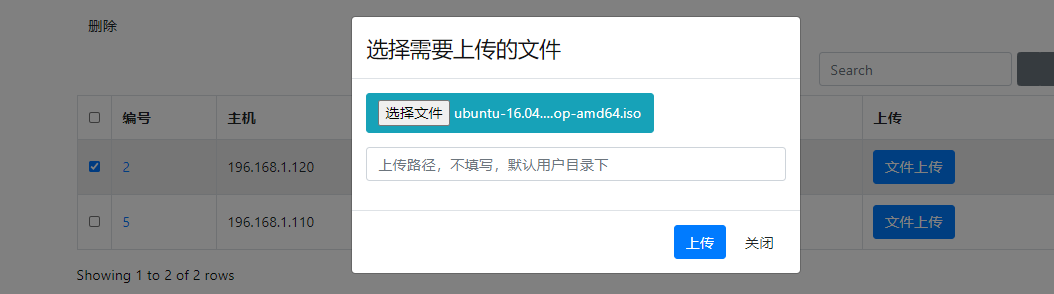
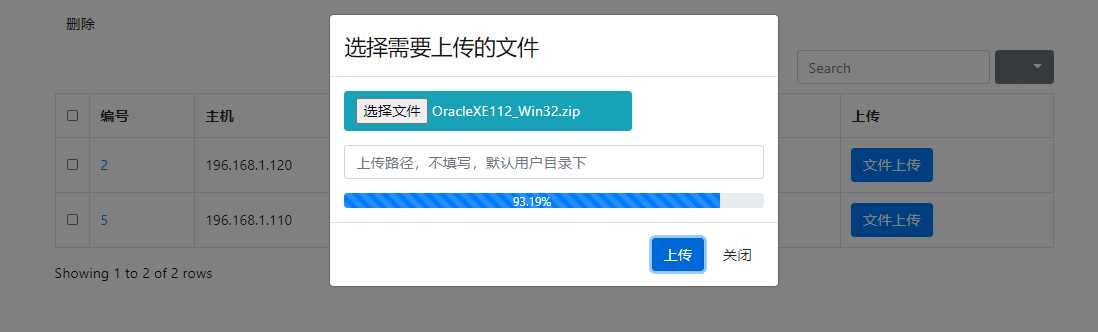
添加上传进度显示

diff --git a/webssh/static/js/main.js b/webssh/static/js/main.js
@@ -27,13 +27,44 @@ function success_execute(msg){
         }
 }
 
- $('#myModal').on('show.bs.modal',function(event) {
+var model = $('#myModal');
+
+//模态框打开时，触发将id放置在form中，连接id
+model.on('show.bs.modal',function(event) {
      var id = $(event.relatedTarget).attr('id');
      $(".hidden").attr({"id":id});
 
  });
 
-$('#upload').click(function() {
+//模态框关闭时，清除文件数据及进度
+model.on('hide.bs.modal',function(event) {
+    $("#upload-form")[0].reset();
+    $("#progress_rate").css("width", "0%");
+    $("#percent").text("0%");
+
+ });
+
+$('#upload').click(function(event) {
+    //阻止默认事件
+    event.preventDefault();
+    var pro = window.setInterval(function (){
+    $.ajax({
+        type: "POST",
+        url: "/upload/progress",
+        data: {"filename": $("#file").val().split("\\").pop() },
+        data_type: "json",
+        success: function(data) {
+            var rate = data.progress * 100;
+            rate = rate.toFixed(2);
+            $("#progress_rate").css("width", rate + "%");
+            $("#percent").text(rate + "%");
+            if (rate >= 100) {
+                window.clearInterval(pro);
+                $("#percent").text("文件上传成功！");
+            }
+        }
+    });
+    }, 1000);
     var formData = new FormData($('#upload-form')[0]);
     var id = $(".hidden").attr("id");
     formData.append("id", id);
@@ -46,9 +77,9 @@ $('#upload').click(function() {
         cache: false,
         contentType: false,
         success: function(data) {
-            $("#myModal").modal('hide');
             if(data.status == 200){
                console.log(data);
+               // $("#myModal").modal('hide');
             }else{
                 alert("上传失败！" + data.result);
             }

diff --git a/webssh/templates/connection_list.html b/webssh/templates/connection_list.html
@@ -39,6 +39,13 @@
                     <div class="form-group">
                         <input id='filepath'  name='filepath'  class="form-control  input-sm" placeholder="上传路径，不填写，默认用户目录下">
                     </div>
+                    <div id="progress" class="progress">
+                        <div id="progress_rate" aria-valuenow="0" aria-valuemin="0" aria-valuemax="100"
+                            class="progress-bar progress-bar-success progress-bar-striped active"
+                            role="progressbar" style="width: 0%">
+                                <span id="percent">0%</span>
+                        </div>
+                    </div>
                 </form>
             </div>
             <div class="modal-footer">

diff --git a/webssh/handlers.py b/webssh/handlers.py
@@ -16,7 +16,7 @@ from concurrent.futures import ThreadPoolExecutor
 import weakref
 from worker import Worker, recycle_worker, clients
 import struct
-
+import uuid
 try:
     from types import UnicodeType
 except ImportError:
@@ -25,11 +25,11 @@ try:
     from json.decoder import JSONDecodeError
 except ImportError:
     JSONDecodeError = ValueError
-
+from tornado.concurrent import run_on_executor
 from tornado_sqlalchemy import SQLAlchemy
 from tornado_sqlalchemy import SessionMixin
-from model import SSHConnection
-from tornadostreamform.multipart_streamer import MultiPartStreamer, TemporaryFileStreamedPart
+from model import SSHConnection, UploadProgress
+from tornadostreamform.multipart_streamer import MultiPartStreamer
 
 TMP_DIR = os.path.join(os.path.dirname(os.path.abspath(__file__)), "tmp_dir")
 
@@ -121,26 +121,53 @@ class ConnectionDataHandler(SessionMixin, BaseHandler):
         self.write(json.dumps(res))
 
 
-class UploadStreamer(MultiPartStreamer):
-    def create_part(self, headers):
-        return TemporaryFileStreamedPart(self, headers, tmp_dir=TMP_DIR)
-
-
 @stream_request_body
 class ConnectionUploadHandler(SessionMixin, BaseHandler):
+    executor = ThreadPoolExecutor(max_workers=cpu_count() * 5)
+
+    def update_upload_progress(self, filename, value, task_id, rel_filename=None, total=None, create=True):
+        up = UploadProgress(filename=filename, cur_value=value, total=total, rel_filename=rel_filename, task_id=task_id)
+        with self.make_session() as session:
+            if create:
+                session.add(up)
+            else:
+                data = {"cur_value": value, "task_id": task_id }
+                if total:
+                    data.update({"total": total})
+                if rel_filename:
+                    data.update({"rel_filename": rel_filename})
+                session.query(UploadProgress).update(data)
+            session.commit()
+
+    def initialize(self):
+        self.chunk_bytes = 0
+
     def prepare(self):
-        self.rm_file()
         if self.request.method.lower() == "post":
             self.request.connection.set_max_body_size(MAX_STREAM_SIZE)
         try:
             total = int(self.request.headers.get("Content-Length", "0"))
         except KeyError:
             total = 0
-        self.ps = UploadStreamer(total)
+        # 每次请求创建临时目录，上传完成后，清除目录
+        # 保证并行上传，或其他请求
+        uuid_str = str(uuid.uuid4())
+        tmp_dir = os.path.join(TMP_DIR, uuid_str)
+        if not os.path.exists(tmp_dir):
+            os.mkdir(tmp_dir)
+        self.ps = MultiPartStreamer(total, tmp_dir=tmp_dir)
+        self.update_upload_progress(filename=uuid_str, value=0, total=total, task_id=1)
 
+    @run_on_executor
     def data_received(self, chunk):
+        self.chunk_bytes += len(chunk)
         self.ps.data_received(chunk)
+        if self.ps.get_parts_by_name("upload_file"):
+            rel_filename = self.ps.get_parts_by_name("upload_file")[0].get_filename()
+        self.update_upload_progress(filename=os.path.basename(self.ps.tmp_dir),
+                                    value=self.chunk_bytes, task_id=1, rel_filename=rel_filename, create=False)
 
+    @tornado.gen.coroutine
     def post(self):
         try:
             self.ps.data_complete()
@@ -148,7 +175,8 @@ class ConnectionUploadHandler(SessionMixin, BaseHandler):
             # 三个part， 第一个文件，第二个filepath， 第三个id
             for part in self.ps.parts:
                 if part.get_filename():
-                    filepath = os.path.join(TMP_DIR, part.get_filename())
+                    filepath = os.path.join(os.path.dirname(part.f_out.name),
+                                            part.get_filename())
                     part.move(filepath)
                 if part.get_name() == "id":
                     id = int(part.get_payload())
@@ -159,8 +187,8 @@ class ConnectionUploadHandler(SessionMixin, BaseHandler):
                 if id:
                     with self.make_session() as session:
                         connection = session.query(SSHConnection).filter_by(id=id).first()
-                        self.ftp_upload(connection, filepath, filedir)
-                    self.rm_file()
+                        futrue = self.executor.submit(self.ftp_upload, connection, filepath, filedir)
+                        yield futrue
                 else:
                     self.write({"status": 500, "result": "id is None"})
             else:
@@ -171,21 +199,48 @@ class ConnectionUploadHandler(SessionMixin, BaseHandler):
             return
         self.write({"status": 200, "result": ""})
 
-    def ftp_upload(self, connection, cur_file, filepath):
+    def ftp_upload(self, connection, filepath, filedir):
+
+        def callback(cur, total):
+            uuid_str = os.path.basename(os.path.dirname(filepath))
+            self.update_upload_progress(filename=uuid_str, value=cur, total=total, task_id=2, create=False)
+
         ftp_transport = paramiko.Transport(connection.hostname, connection.port)
         ftp_transport.connect(username=connection.username, password=connection.password)
         sftp_client = paramiko.SFTPClient.from_transport(ftp_transport)
-        filename = os.path.basename(cur_file)
+        filename = os.path.basename(filepath)
         if connection.username != "root":
-            target_file = "%s/%s" % (filepath, filename) if filepath else "/home/%s/%s" % (connection.username, filename)
+            target_file = "%s/%s" % (bytes.decode(filedir), filename) if filedir else "/home/%s/%s" % (connection.username, filename)
         else:
-            target_file = "/root/%s" % filename
-        sftp_client.put(cur_file, target_file)
+            target_file = "%s/%s" % (bytes.decode(filedir), filename) if filedir else "/root/%s" % filename
+        sftp_client.put(filepath, target_file, callback=callback)
+        self.rm_file(filepath)
 
-    def rm_file(self):
-        files = os.listdir(TMP_DIR)
+    def rm_file(self, filepath):
+        work_dir = os.path.dirname(filepath)
+        files = os.listdir(work_dir)
         for file in files:
-            os.remove(os.path.join(TMP_DIR, file))
+            os.remove(os.path.join(work_dir, file))
+        os.rmdir(work_dir)
+
+
+class UploadProgressHandler(SessionMixin, BaseHandler):
+
+    def post(self):
+        res = {}
+        rel_filename = self.get_argument("filename")
+        with self.make_session() as session:
+            up = session.query(UploadProgress).filter_by(rel_filename=rel_filename).first()
+            if up:
+                if up.task_id == 1:
+                    res['progress'] = float(up.cur_value/up.total) * 0.5
+                elif up.task_id == 2:
+                    res['progress'] = 0.5 + float(up.cur_value / up.total) * 0.5
+            else:
+                res['progress'] = 0
+            if res.get("progress") >= 1:
+                session.delete(up)
+        self.write(res)
 
 
 class ConnectionDeleteHandler(SessionMixin, BaseHandler):
@@ -352,6 +407,7 @@ class Application(tornado.web.Application):
             (r'/connection/(\d+)', ConnectionEditHandler),
             (r'/connection/data', ConnectionDataHandler),
             (r'/upload', ConnectionUploadHandler),
+            (r'/upload/progress', UploadProgressHandler),
             (r'/connection/delete/(\d+)', ConnectionDeleteHandler),
             (r'/connection/list', ConnectionListHandler),
             (r'/connection/\d+\.\d+\.\d+\.\d+/(\d+)', ConnectionShowHandler),

diff --git a/webssh/model.py b/webssh/model.py
@@ -13,3 +13,21 @@ class SSHConnection(db.Model):
     port = Column(SMALLINT)
     username = Column(String(50))
     password = Column(String(100))
+
+
+class UploadProgress(db.Model):
+    __tablename__ = "UploadProgress"
+    id = Column(INTEGER,
+                primary_key=True,
+                autoincrement=True)
+    # 临时uuid目录名
+    filename = Column(String(100))
+    # 上传的文件名
+    rel_filename = Column(String(100))
+    cur_value = Column(INTEGER)
+    total = Column(INTEGER)
+    task_id = Column(SMALLINT)
+
+
+def init():
+    db.create_all()

diff --git a/README.md b/README.md
@@ -11,15 +11,14 @@ web进入默认在注册ssh连接页面
 ![connection_list](img/connection_list.png)
 
 ### 修改连接
-在/connection/list url 连接列表页面，点击编号 
+在/connection/list url 连接列表页面，点击编号    
 ![connection_list](img/update_connection.png)    
 
 ### 登录服务器
-在连接列表上，点击相应**连接**按钮，自动打开新页面，连接服务器
+在连接列表上，点击相应**连接**按钮，自动打开新页面，连接服务器    
 "/connection/ip地址/随机worker数"    
 ![webssh](img/sshweb.png)
 
 ### 上传大文件(默认5G限制)
-在连接列表上，点击相应**文件上传**按钮，选择文件，上传文件    
-**TODO** 上传进度显示    
+在连接列表上，点击相应**文件上传**按钮，选择文件，上传文件       
 ![upload](img/upload.png)
